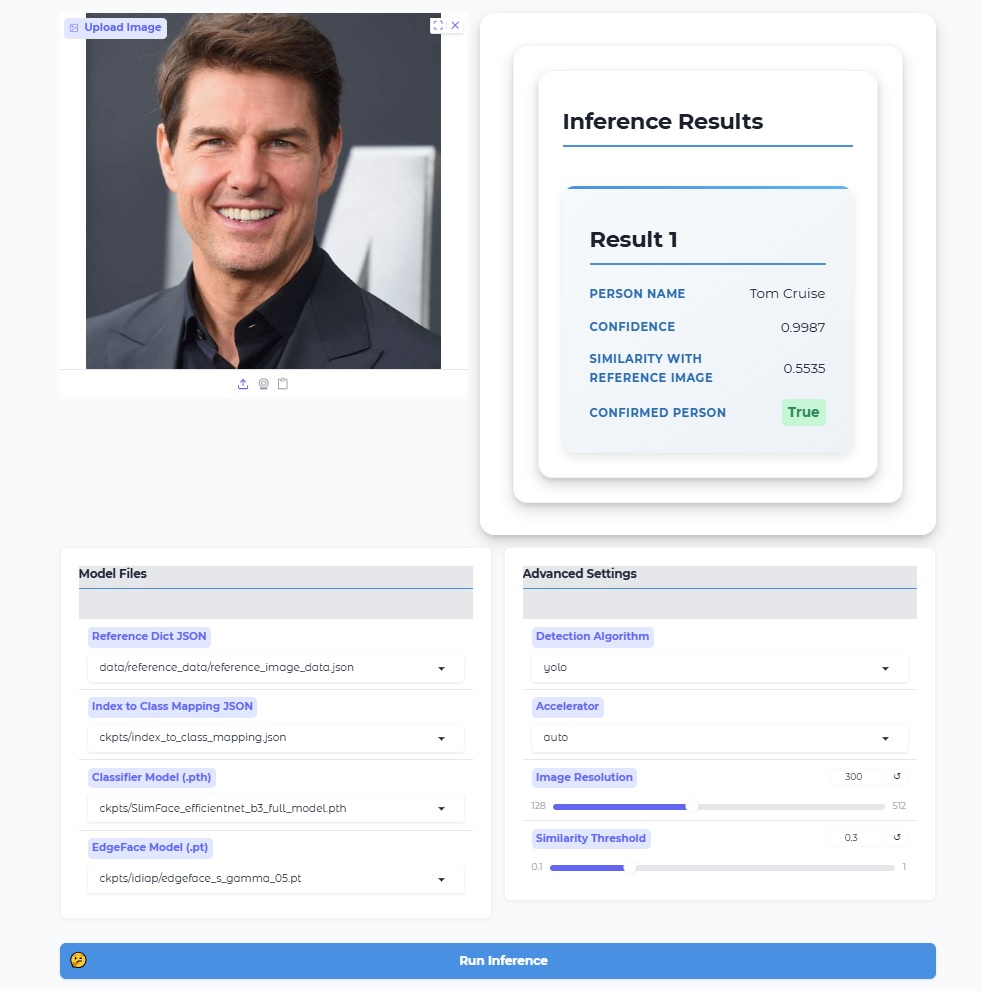
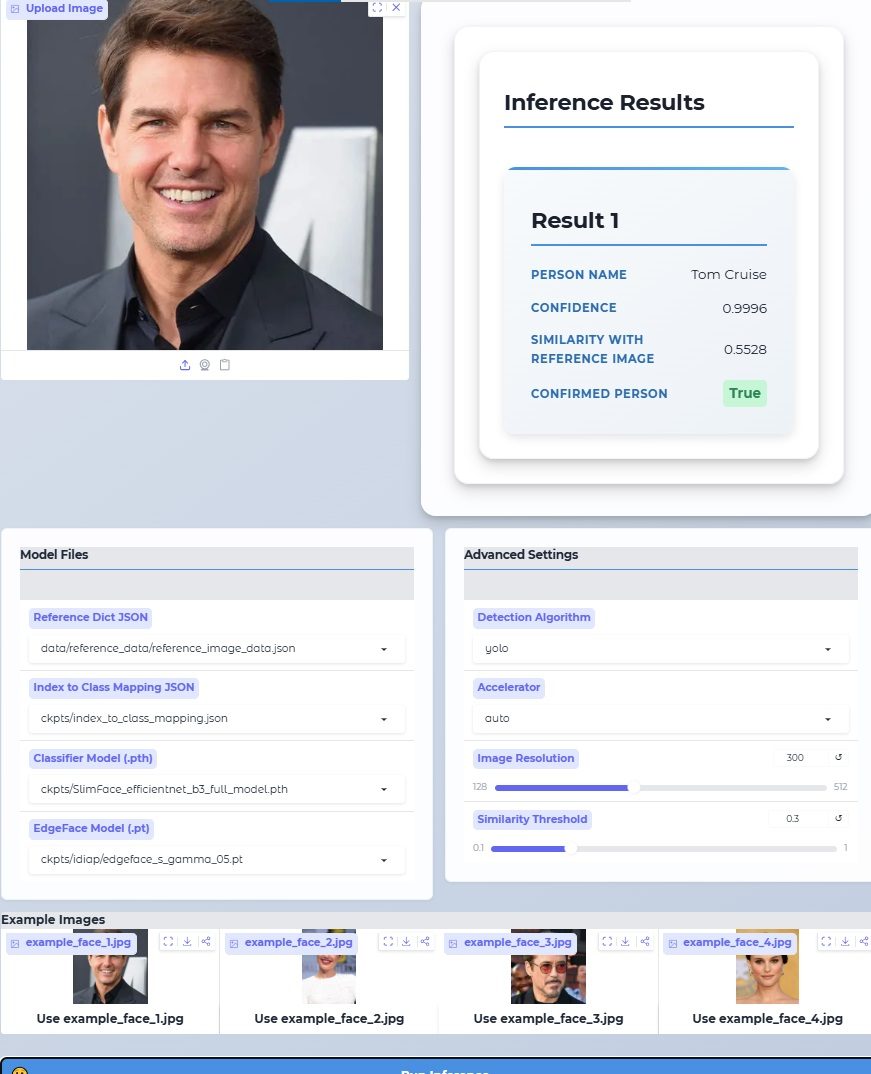
Change some codes

diff --git a/apps/gradio_app.py b/apps/gradio_app.py
@@ -87,30 +87,25 @@ def create_interface():
         image_input, output = create_image_io_row()
         ref_dict, index_map, classifier_model, edgeface_model, algorithm, accelerator, resolution, similarity_threshold = create_model_settings_row()
         
-        # Add example image gallery as a table
+        # Add example image gallery as a row of columns
         with gr.Group():
             gr.Markdown("### Example Images")
             example_images = glob("apps/assets/examples/*.[jp][pn][gf]")
             if example_images:
-                # Create a list of dictionaries for the table
-                table_data = []
-                for img_path in example_images:
-                    table_data.append({
-                        "Image": img_path,  # Will be rendered as an image
-                        "Action": f"Use {os.path.basename(img_path)}"  # Button text
-                    })
-                
-                # Create a table with images and buttons
-                gr.Dataframe(
-                    value=table_data,
-                    headers=["Image", "Action"],
-                    datatype=["image", "str"],
-                    interactive=False,
-                    elem_classes=["example-table"],
-                    # Add click event for buttons
-                    row_click=lambda row: Image.open(row["Image"]),
-                    outputs=image_input
-                )
+                with gr.Row(elem_classes=["example-row"]):
+                    for img_path in example_images:
+                        with gr.Column(min_width=120):
+                            gr.Image(
+                                value=img_path,
+                                label=os.path.basename(img_path),
+                                type="filepath",
+                                height=100,
+                                elem_classes=["example-image"]
+                            )
+                            gr.Button(f"Use {os.path.basename(img_path)}").click(
+                                fn=lambda x=img_path: Image.open(x),
+                                outputs=image_input
+                            )
             else:
                 gr.Markdown("No example images found in apps/assets/examples/")
 
@@ -140,7 +135,7 @@ def create_interface():
 def main():
     """Launch the Gradio interface."""
     demo = create_interface()
-    demo.launch(share=True)
+    demo.launch()
 
 if __name__ == "__main__":
     main()
